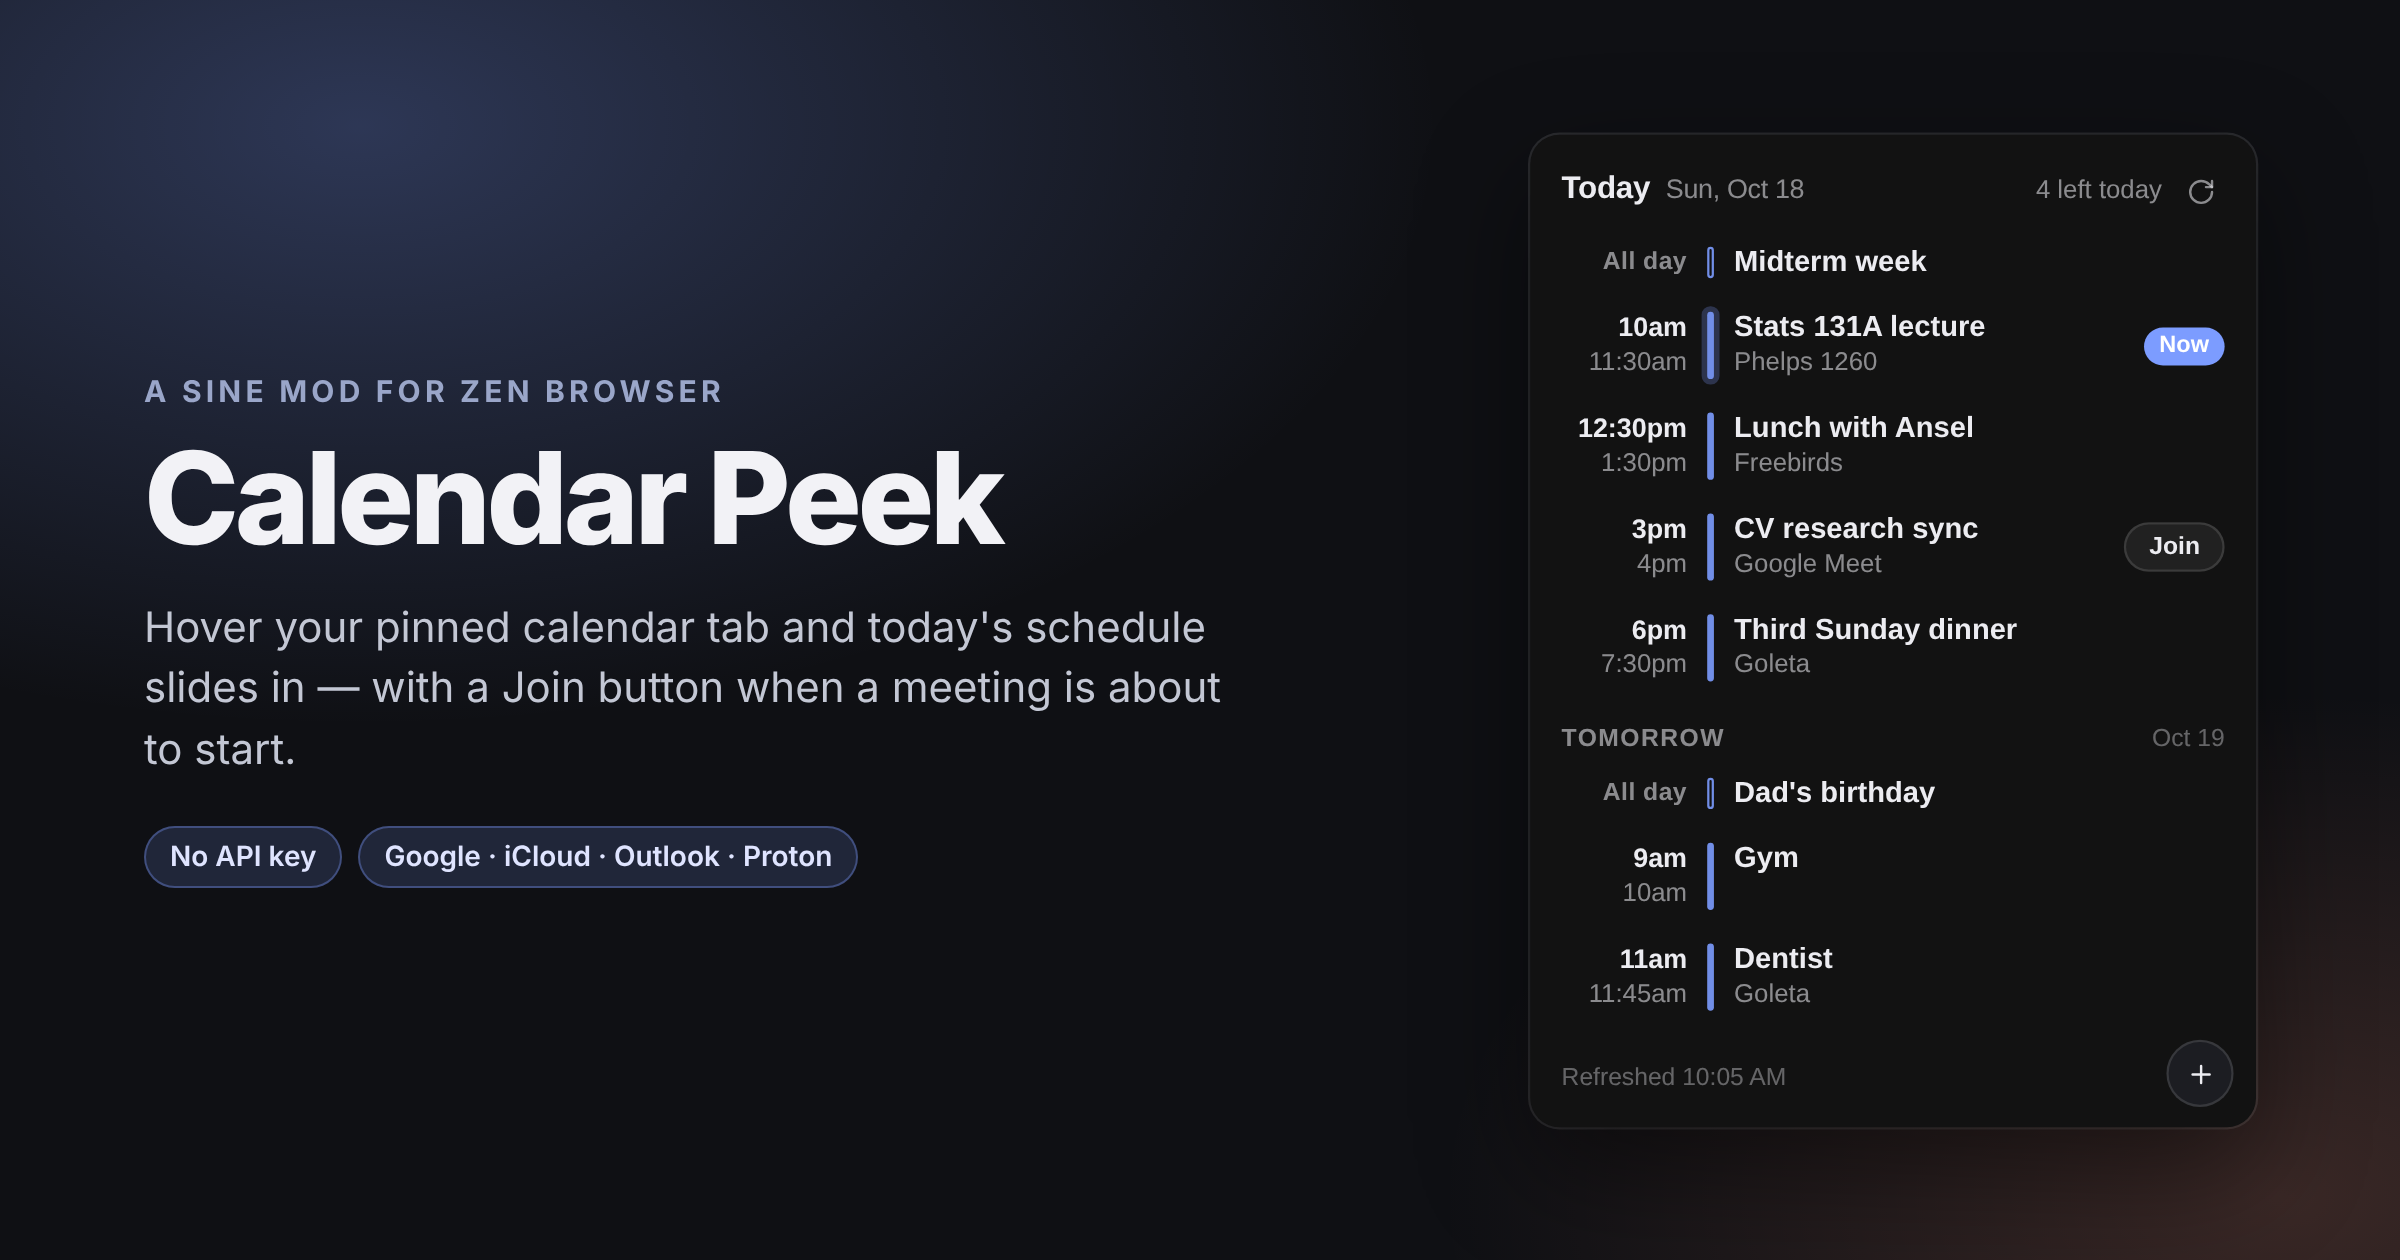
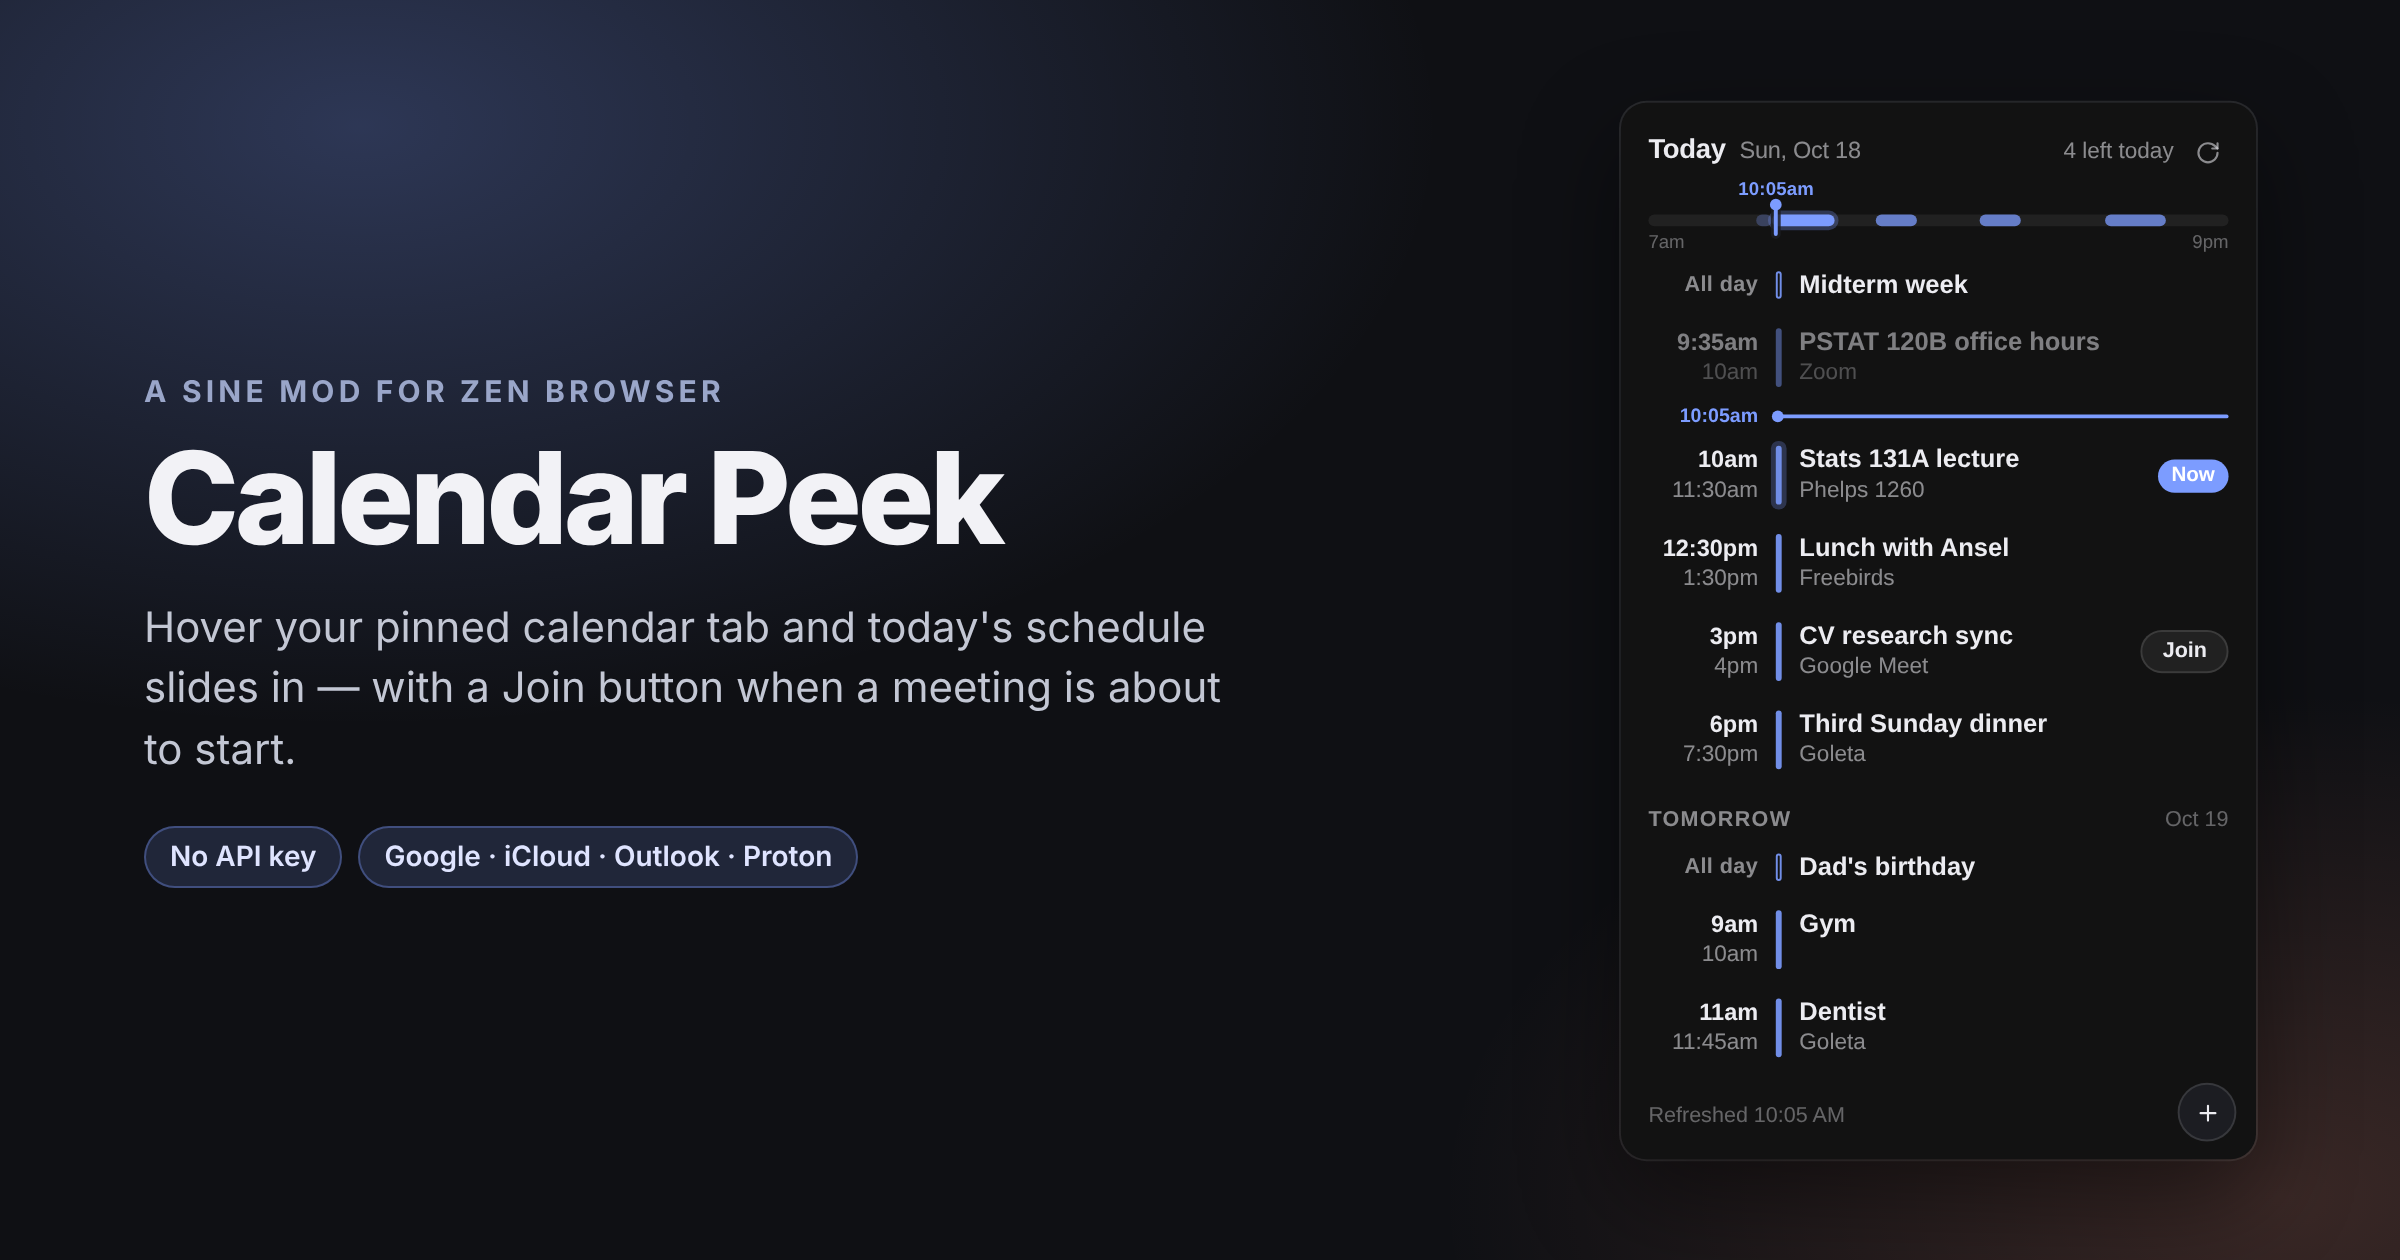
1.1.0: day timeline + now-line so you can see where you are in the day
- Timeline strip under the header: a block per timed event (faded once
  over, glowing while in progress) and a marker + label for right now
- The list shows the last couple of finished events dimmed above a
  now-line, with the rest folded into an "N earlier…" toggle; show_past
  now defaults on
- Join no longer shows on events that have already ended

Claude-Session: https://claude.ai/code/session_01V8mr8zGJnhUSULqYe7BmT1

diff --git a/calendar-peek.uc.js b/calendar-peek.uc.js
@@ -2,7 +2,7 @@
 // @name           Calendar Peek
 // @namespace      calendar-peek
 // @description    Arc-style "what's on today" preview when hovering a pinned calendar tab
-// @version        1.0.0
+// @version        1.1.0
 // @author         Raghav
 // @include        main
 // @ignorecache
@@ -686,7 +686,7 @@
   const SVGNS = "http://www.w3.org/2000/svg";
   const TAG = "[calendar-peek]";
   const PREF = "mod.calendarpeek.";
-  const VERSION = "1.0.0";
+  const VERSION = "1.1.0";
 
   const pref = (name, fallback) => {
     try {
@@ -881,6 +881,114 @@
       animation: cp-rot 0.7s linear infinite;
     }
     @keyframes cp-rot { to { transform: rotate(360deg); } }
+    /* Day timeline: the shape of today, with a marker for now. */
+    #calpeek-panel .cp-timeline {
+      position: relative;
+      height: 34px;
+      margin: 2px 14px 0;
+    }
+    #calpeek-panel .cp-track {
+      position: absolute;
+      left: 0; right: 0; top: 13px;
+      height: 6px;
+      border-radius: 3px;
+      background: var(--cp-hover);
+    }
+    #calpeek-panel .cp-block {
+      position: absolute;
+      top: 13px;
+      height: 6px;
+      min-width: 3px;
+      border-radius: 3px;
+      background: var(--cp-color, var(--cp-accent));
+      opacity: 0.75;
+    }
+    #calpeek-panel .cp-block.cp-past { opacity: 0.28; }
+    #calpeek-panel .cp-block.cp-live {
+      opacity: 1;
+      box-shadow: 0 0 0 2px color-mix(in srgb, var(--cp-color, var(--cp-accent)) 28%, transparent);
+    }
+    #calpeek-panel .cp-nowmark {
+      position: absolute;
+      top: 8px;
+      width: 2px;
+      height: 16px;
+      margin-left: -1px;
+      border-radius: 1px;
+      background: var(--cp-accent);
+      box-shadow: 0 0 0 1.5px color-mix(in srgb, var(--cp-bg) 85%, transparent);
+    }
+    #calpeek-panel .cp-nowmark::before {
+      content: "";
+      position: absolute;
+      left: -2px; top: -3px;
+      width: 6px; height: 6px;
+      border-radius: 50%;
+      background: var(--cp-accent);
+    }
+    #calpeek-panel .cp-nowlabel {
+      position: absolute;
+      top: -5px;
+      font-size: 9.5px;
+      font-weight: 700;
+      letter-spacing: 0.01em;
+      color: var(--cp-accent);
+      white-space: nowrap;
+      transform: translateX(-50%);
+    }
+    #calpeek-panel .cp-nowlabel.cp-edge-l { transform: none; }
+    #calpeek-panel .cp-nowlabel.cp-edge-r { transform: translateX(-100%); }
+    #calpeek-panel .cp-hour {
+      position: absolute;
+      top: 22px;
+      font-size: 9.5px;
+      color: var(--cp-faint);
+    }
+    #calpeek-panel .cp-hour.cp-r { right: 0; }
+    /* The "now" rule inside the list, Google-Calendar style. */
+    #calpeek-panel .cp-nowline {
+      display: flex;
+      align-items: center;
+      gap: 9px;
+      margin: 1px 6px;
+      padding: 0 8px;
+      height: 14px;
+    }
+    #calpeek-panel .cp-nowtime {
+      width: 56px;
+      flex-shrink: 0;
+      text-align: right;
+      font-size: 10px;
+      font-weight: 700;
+      font-variant-numeric: tabular-nums;
+      color: var(--cp-accent);
+    }
+    #calpeek-panel .cp-nowrule {
+      position: relative;
+      flex: 1;
+      height: 2px;
+      border-radius: 1px;
+      background: var(--cp-accent);
+    }
+    #calpeek-panel .cp-nowrule::before {
+      content: "";
+      position: absolute;
+      left: -2px; top: -2px;
+      width: 6px; height: 6px;
+      border-radius: 50%;
+      background: var(--cp-accent);
+    }
+    #calpeek-panel .cp-more.cp-earlier {
+      cursor: pointer;
+      padding: 3px 14px 2px 79px;
+      text-align: left;
+    }
+    #calpeek-panel .cp-more.cp-earlier:hover { color: var(--cp-dim); }
+    #calpeek-panel .cp-done {
+      padding: 10px 14px 6px 79px;
+      font-size: 12px;
+      color: var(--cp-dim);
+    }
     #calpeek-panel .cp-dayhead {
       display: flex;
       justify-content: space-between;
@@ -912,7 +1020,7 @@
     #calpeek-panel .cp-row:focus-visible {
       background: var(--cp-hover);
     }
-    #calpeek-panel .cp-row.cp-past { opacity: 0.45; }
+    #calpeek-panel .cp-row.cp-past { opacity: 0.5; }
     #calpeek-panel .cp-time {
       width: 56px;
       flex-shrink: 0;
@@ -1408,12 +1516,10 @@
       return this.inflight;
     }
 
+    // Always includes today's finished events; render() decides what to show.
     agenda(now = Date.now()) {
       const feeds = this.cache.feeds || [];
-      return CalendarCore.buildAgenda(feeds, now, {
-        days: iPref("days", 2),
-        showPast: bPref("show_past", false),
-      });
+      return CalendarCore.buildAgenda(feeds, now, { days: iPref("days", 2), showPast: true });
     }
 
     // ---------- panel ----------
@@ -1611,7 +1717,7 @@
           sideUsed = true;
         }
       }
-      if (it.join) {
+      if (it.join && (!isToday || it.end > now)) {
         const startsSoon = isToday && !it.allDay && it.end > now &&
           it.start - now <= iPref("join_window", 10) * 60000;
         const join = el("span", "cp-join" + (startsSoon ? " cp-hot" : ""), "Join");
@@ -1626,6 +1732,55 @@
 
     multiFeed() {
       return (this.cache.feeds?.length || 0) > 1;
+    }
+
+    // A slim strip showing the shape of the day — blocks for each timed
+    // event, a marker for right now — so you can see where you are at a glance.
+    timeline(timed, now) {
+      if (!timed.length) return null;
+      const H = 3600000;
+      const d0 = new Date(now); d0.setHours(0, 0, 0, 0);
+      const dayStart = d0.getTime();
+      const hourOf = t => (t - dayStart) / H;
+      let startH = Math.min(7, Math.floor(hourOf(Math.min(...timed.map(it => it.start)))), Math.floor(hourOf(now)));
+      let endH = Math.max(21, Math.ceil(hourOf(Math.max(...timed.map(it => it.end)))), Math.ceil(hourOf(now) + 0.5));
+      startH = Math.max(0, startH);
+      endH = Math.min(24, Math.max(endH, startH + 2));
+      const t0 = dayStart + startH * H, t1 = dayStart + endH * H, span = t1 - t0;
+      const pct = t => Math.max(0, Math.min(100, ((t - t0) / span) * 100));
+
+      const wrap = el("div", "cp-timeline");
+      wrap.appendChild(el("div", "cp-track"));
+      for (const it of timed) {
+        const b = el("div", "cp-block");
+        const a = pct(it.start), z = pct(it.end);
+        b.style.left = `${a}%`;
+        b.style.width = `${Math.max(z - a, 0.8)}%`;
+        if (it.color) b.style.setProperty("--cp-color", it.color);
+        if (it.end <= now) b.classList.add("cp-past");
+        else if (it.start <= now) b.classList.add("cp-live");
+        b.setAttribute("title", `${it.summary} · ${fmtTimeShort(it.start)}–${fmtTimeShort(it.end)}`);
+        wrap.appendChild(b);
+      }
+      const p = pct(now);
+      const mark = el("div", "cp-nowmark");
+      mark.style.left = `${p}%`;
+      wrap.appendChild(mark);
+      const label = el("div", "cp-nowlabel", fmtTimeShort(now));
+      label.style.left = `${p}%`;
+      if (p < 9) label.classList.add("cp-edge-l");
+      else if (p > 91) label.classList.add("cp-edge-r");
+      wrap.appendChild(label);
+      wrap.appendChild(el("div", "cp-hour cp-l", fmtTimeShort(t0)));
+      wrap.appendChild(el("div", "cp-hour cp-r", endH === 24 ? "12am" : fmtTimeShort(t1)));
+      return wrap;
+    }
+
+    nowLine(now) {
+      const line = el("div", "cp-nowline");
+      line.appendChild(el("span", "cp-nowtime", fmtTimeShort(now)));
+      line.appendChild(el("span", "cp-nowrule"));
+      return line;
     }
 
     render(tab) {
@@ -1684,32 +1839,55 @@
       box.appendChild(this.header(agenda));
 
       const max = Math.max(1, iPref("max_items", 8));
+      const PAST_KEEP = 2;
       let shown = 0, hidden = 0;
-      agenda.days.forEach((day, i) => {
-        const isToday = i === 0;
-        if (!isToday) {
-          if (!day.items.length && i > 1) return; // only "Tomorrow" earns an empty row
-          const head = el("div", "cp-dayhead");
-          head.appendChild(el("span", null, i === 1 ? "Tomorrow" : fmtWeekdayLong(day.dayStart)));
-          head.appendChild(el("span", null, fmtMonthDay(day.dayStart)));
-          box.appendChild(head);
-        }
-        if (!day.items.length) {
-          if (isToday) {
-            const empty = el("div", "cp-empty cp-today");
-            empty.appendChild(el("span", "cp-big", agenda.remainingToday === 0 && this.hadEventsToday(now) ? "That's it for today" : "Nothing on today"));
-            empty.appendChild(document.createTextNode("Enjoy the open time."));
-            box.appendChild(empty);
-          } else {
-            box.appendChild(el("div", "cp-empty", "Nothing scheduled"));
+      const add = (it, isToday) => {
+        if (shown >= max) { hidden++; return; }
+        box.appendChild(this.row(it, now, isToday));
+        shown++;
+      };
+
+      // ---- today: all-day → timeline → recent past (dimmed) → now → upcoming
+      const today = agenda.days[0];
+      const allDay = today.items.filter(it => it.allDay);
+      const timed = today.items.filter(it => !it.allDay);
+      const past = timed.filter(it => it.end <= now);
+      const ahead = timed.filter(it => it.end > now);
+
+      if (!timed.length && !allDay.length) {
+        const empty = el("div", "cp-empty cp-today");
+        empty.appendChild(el("span", "cp-big", "Nothing on today"));
+        empty.appendChild(document.createTextNode("Enjoy the open time."));
+        box.appendChild(empty);
+      } else {
+        const strip = this.timeline(timed, now);
+        if (strip) box.appendChild(strip);
+        for (const it of allDay) add(it, true);
+        if (bPref("show_past", true) && past.length) {
+          let visible = past;
+          if (!this.expandPast && past.length > PAST_KEEP) {
+            visible = past.slice(-PAST_KEEP);
+            const more = el("div", "cp-more cp-earlier", `${past.length - PAST_KEEP} earlier…`);
+            more.setAttribute("data-earlier", "1");
+            box.appendChild(more);
           }
-          return;
+          for (const it of visible) add(it, true);
         }
-        for (const it of day.items) {
-          if (shown >= max) { hidden++; continue; }
-          box.appendChild(this.row(it, now, isToday));
-          shown++;
-        }
+        if (timed.length) box.appendChild(this.nowLine(now));
+        for (const it of ahead) add(it, true);
+        if (timed.length && !ahead.length) box.appendChild(el("div", "cp-done", "That's it for today."));
+      }
+
+      // ---- later days
+      agenda.days.slice(1).forEach((day, j) => {
+        const i = j + 1;
+        if (!day.items.length && i > 1) return; // only "Tomorrow" earns an empty row
+        const head = el("div", "cp-dayhead");
+        head.appendChild(el("span", null, i === 1 ? "Tomorrow" : fmtWeekdayLong(day.dayStart)));
+        head.appendChild(el("span", null, fmtMonthDay(day.dayStart)));
+        box.appendChild(head);
+        if (!day.items.length) { box.appendChild(el("div", "cp-empty", "Nothing scheduled")); return; }
+        for (const it of day.items) add(it, false);
       });
       if (hidden) box.appendChild(el("div", "cp-more", `+${hidden} more`));
 
@@ -1723,14 +1901,6 @@
       }
       box.appendChild(this.addButton());
       this.setRefreshing(this.refreshing);
-    }
-
-    // Did anything timed happen earlier today? (Decides the empty-state copy.)
-    hadEventsToday(now) {
-      try {
-        const a = CalendarCore.buildAgenda(this.cache.feeds || [], now, { days: 1, showPast: true });
-        return a.days[0].items.some(it => !it.allDay);
-      } catch { return false; }
     }
 
     async refresh(tab) {
@@ -1765,6 +1935,7 @@
           .finally(() => { if (this.panel?.state === "open") this.setRefreshing(false); });
         return;
       }
+      if (t.closest("[data-earlier]")) { this.expandPast = true; this.render(tab); return; }
       const join = t.closest("[data-join]");
       if (join) { e.stopPropagation(); this.openNewTab(join.getAttribute("data-join")); this.hideNow(); return; }
       if (t.closest("[data-add]")) {
@@ -1886,6 +2057,7 @@
       clearInterval(this.tickTimer);
       this.tickTimer = null;
       this.releaseCompactSidebar();
+      this.expandPast = false;
       if (this.hoverTab) this.restoreTooltip(this.hoverTab);
       this.hoverTab = null;
       this.currentTab = null;

diff --git a/preview/preview.html b/preview/preview.html
@@ -53,7 +53,7 @@
   html.cover .hero h1 { font-size: 64px; letter-spacing: -.035em; line-height: 1.02; margin: 12px 0 18px; font-weight: 800; }
   html.cover .hero p { font-size: 21px; line-height: 1.45; color: #c3c7d4; margin: 0 0 22px; }
   html.cover .hero .pill { display: inline-block; font-size: 14px; font-weight: 600; color: #dfe4ff; background: rgba(124,156,255,.16); border: 1px solid rgba(124,156,255,.35); border-radius: 999px; padding: 6px 12px; margin-right: 8px; }
-  html.cover #calpeek-panel { flex-shrink: 0; transform: scale(1.12); transform-origin: right center; }
+  html.cover #calpeek-panel { flex-shrink: 0; transform: scale(0.98); transform-origin: right center; }
 </style>
 </head>
 <body>
@@ -81,7 +81,7 @@
     "mod.calendarpeek.feeds": "https://example.invalid/basic.ics",
     "mod.calendarpeek.days": params.get("days") || "2",
     "mod.calendarpeek.max_items": "10",
-    "mod.calendarpeek.show_past": params.get("past") || "false",
+    "mod.calendarpeek.show_past": params.get("past") || "true",
   };
   window.Services = {
     prefs: {

diff --git a/preview/shot.py b/preview/shot.py
@@ -16,7 +16,8 @@ SHOTS = {
     "setup": "?state=setup",
     "empty": "?state=empty",
     "past": "?past=true&days=1",
-    "live": "?now=1792343400000",  # 10:10 AM — lecture in progress
+    "live": "?now=1792343400000",       # 10:10 AM — lecture in progress
+    "afternoon": "?now=1792359900000",  # 2:45 PM — three events done, sync in 15 min
 }
 
 def main():

diff --git a/README.md b/README.md
@@ -15,8 +15,10 @@ It's the calendar half of Arc's sidebar peeks, rebuilt as a
 
 ## What you get
 
-- **Today at a glance.** All-day events first, then the rest in order, with
-  finished events tucked away (toggle `show_past` to keep them, dimmed).
+- **Where you are in the day.** A slim timeline strip shows the shape of
+  today — a block per event, a marker for right now — and the list itself has
+  a now-line: the last couple of finished events sit dimmed above it, what's
+  ahead sits below. Earlier ones fold into a `3 earlier…` line.
 - **Now / in 5 min.** The event you're in gets a `Now` chip and a glowing bar;
   anything starting within the hour counts down.
 - **Join.** Meet, Zoom, Teams, Webex, Whereby… links are picked out of the
@@ -70,7 +72,7 @@ In `Settings → Sine → Calendar Peek` (or `about:config`):
 | `mod.calendarpeek.feeds` | — | One or more `.ics` addresses, space-separated. `Name=URL` to label one. |
 | `mod.calendarpeek.days` | `2` | Days to show, starting today (1–14). |
 | `mod.calendarpeek.max_items` | `8` | Events shown before a `+N more` line. |
-| `mod.calendarpeek.show_past` | `false` | Keep today's finished events, dimmed. |
+| `mod.calendarpeek.show_past` | `true` | Show today's finished events, dimmed, above the now-line. |
 | `mod.calendarpeek.show_badge` | `true` | Events-left-today badge on the tab icon. |
 | `mod.calendarpeek.join_window` | `10` | Minutes before a call that Join turns solid. |
 | `mod.calendarpeek.hover_delay` | `400` | ms before the preview opens. |
@@ -100,6 +102,9 @@ For the curious; nothing below is required reading.
 - Join links come from `X-GOOGLE-CONFERENCE`, `X-MICROSOFT-
   SKYPETEAMSMEETINGURL`, `URL`, `LOCATION`, then the description, in that
   order.
+- The timeline runs from 7 AM to 9 PM, stretching to cover anything earlier
+  or later (and the current time). Blocks fade once they're over; the one
+  you're in glows.
 - Clicking an event opens that day in Google Calendar (`/r/day/YYYY/MM/DD`)
   or the event's own `URL` if the feed has one; `+` goes to Google's
   `eventedit` or Outlook's compose deeplink. Other providers just focus the
